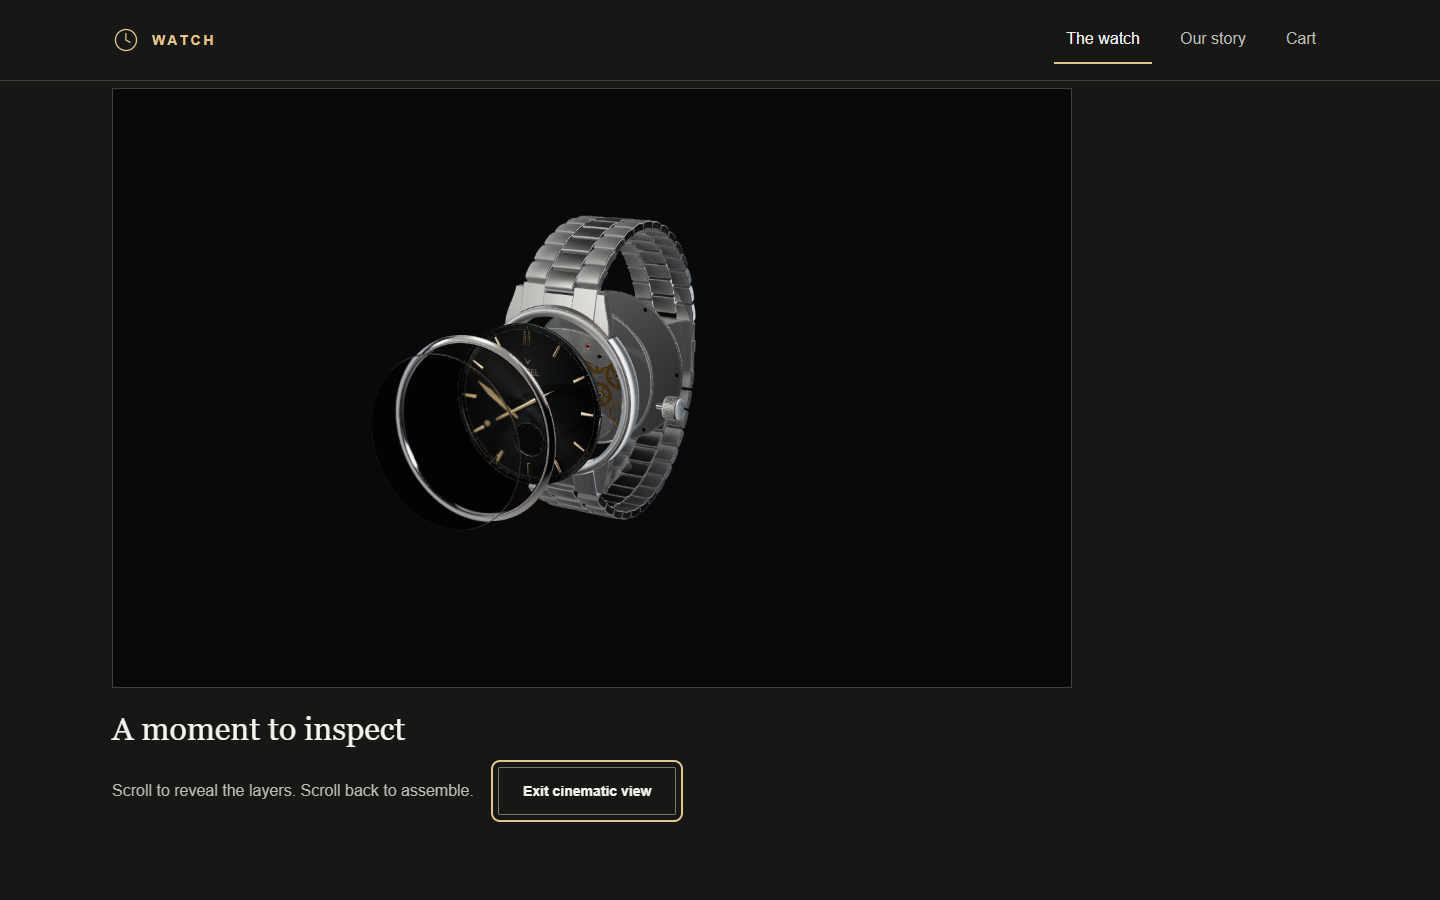
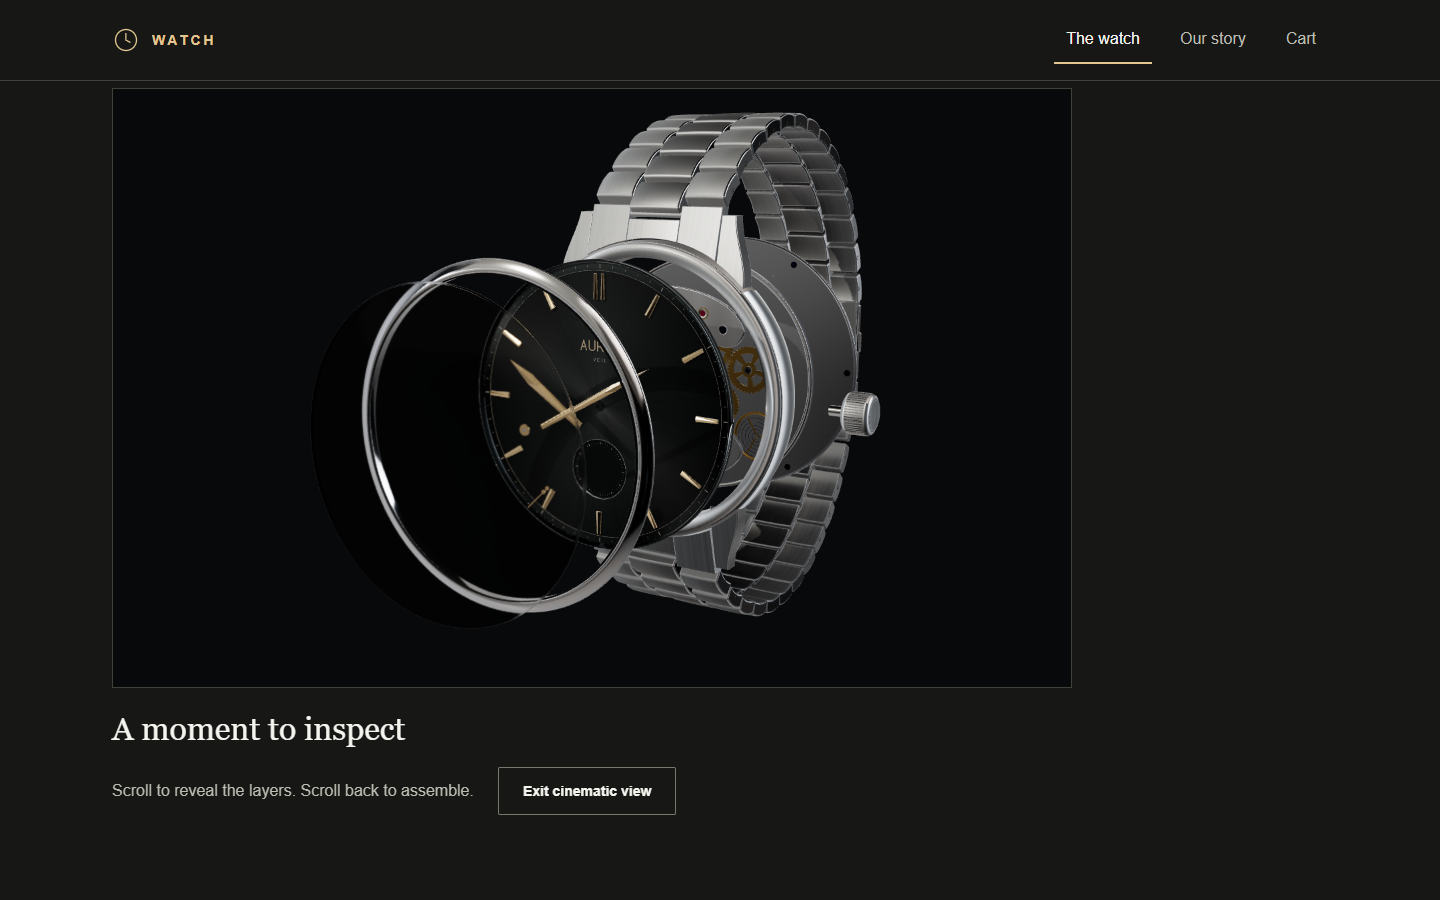
fix: approach before cinematic separation and tighten framing

Changed region(s): [[0.25, 0.1244, 0.625, 0.6844], [0.2812, 0.5911, 0.4062, 0.6844]]

diff --git a/tests/cinematic.spec.ts b/tests/cinematic.spec.ts
@@ -1,4 +1,15 @@
 import { expect, test, type Page } from '@playwright/test';
+import sharp from 'sharp';
+
+async function visibleHeight(image: Buffer) {
+  const { data, info } = await sharp(image).removeAlpha().raw().toBuffer({ resolveWithObject: true });
+  let top = info.height, bottom = 0;
+  for (let y = 0; y < info.height; y++) for (let x = 0; x < info.width; x++) {
+    const i = (y * info.width + x) * info.channels;
+    if (Math.max(data[i], data[i + 1], data[i + 2]) > 45) { top = Math.min(top, y); bottom = Math.max(bottom, y); }
+  }
+  return bottom - top;
+}
 
 async function seek(page: Page, progress: number) {
   await expect(page.locator('.watch-story')).toHaveAttribute('data-progress', /.+/);
@@ -23,6 +34,11 @@ test('V11 cinematic scroll reverses, holds, releases controls and restores the a
   const style = await page.addStyleTag({ content: '.scene-orbit-controls{visibility:hidden}header{visibility:hidden}' });
   const home = await canvas.screenshot();
   await page.getByRole('button', { name: 'Start cinematic view' }).click();
+  await seek(page, 0);
+  const start = await canvas.screenshot({ path: testInfo.outputPath('cinematic-start.png') });
+  await seek(page, 0.18);
+  const approach = await canvas.screenshot({ path: testInfo.outputPath('cinematic-approach.png') });
+  expect(await visibleHeight(approach)).toBeGreaterThan(await visibleHeight(start) * 1.03);
   await seek(page, 0.55);
   const middle = await canvas.screenshot({ path: testInfo.outputPath('cinematic-middle.png') });
   await seek(page, 0.85);
@@ -30,6 +46,7 @@ test('V11 cinematic scroll reverses, holds, releases controls and restores the a
   expect(hold.equals(middle)).toBe(false);
   await seek(page, 0.95); expect((await canvas.screenshot()).equals(hold)).toBe(true);
   await seek(page, 0.55); expect((await canvas.screenshot()).equals(middle)).toBe(true);
+  await seek(page, 0.18); expect((await canvas.screenshot()).equals(approach)).toBe(true);
   await seek(page, 0);
   await style.evaluate(element => element.parentNode?.removeChild(element));
   await canvas.hover(); const before = await page.evaluate(() => scrollY);
@@ -37,7 +54,8 @@ test('V11 cinematic scroll reverses, holds, releases controls and restores the a
   await expect.poll(() => page.evaluate(() => scrollY)).toBeGreaterThan(before);
   await page.getByRole('button', { name: 'Exit cinematic view' }).focus();
   const wheelPosition = await page.evaluate(() => scrollY);
-  await page.keyboard.press('PageDown');
+  await canvas.screenshot(); // Settle the preceding wheel-driven WebGL frame.
+  await page.keyboard.press('PageDown', { delay: 100 });
   await expect.poll(() => page.evaluate(() => scrollY), { timeout: 20_000 }).toBeGreaterThan(wheelPosition);
   await page.getByRole('button', { name: 'Exit cinematic view' }).click();
   await expect(page.getByRole('slider')).toHaveValue('0');
@@ -45,6 +63,16 @@ test('V11 cinematic scroll reverses, holds, releases controls and restores the a
   const hide = await page.addStyleTag({ content: '.scene-orbit-controls{visibility:hidden}header{visibility:hidden}' });
   expect((await canvas.screenshot()).equals(home)).toBe(true);
   await hide.evaluate(element => element.parentNode?.removeChild(element));
+  expect(errors).toEqual([]);
+});
+
+test('cinematic framing remains usable across seven widths, reduced motion and refresh', async ({ page }, testInfo) => {
+  test.setTimeout(180_000);
+  const errors: string[] = [];
+  page.on('pageerror', error => errors.push(error.message));
+  await page.setViewportSize({ width: 1000, height: 900 });
+  await page.goto('/watch'); await page.getByRole('button', { name: 'Load 3D preview' }).click();
+  await expect(page.getByRole('slider')).toBeVisible({ timeout: 15_000 });
   await page.getByRole('button', { name: 'Start cinematic view' }).click();
   for (const width of [320, 375, 390, 768, 1024, 1440, 1920]) {
     await page.setViewportSize({ width, height: 900 }); await seek(page, 0.85);
@@ -79,7 +107,8 @@ test('cinematic touch scrolling, idle rendering and context-loss recovery retain
   });
   await page.setViewportSize({ width: 390, height: 844 });
   await page.goto('/watch'); await page.getByRole('button', { name: 'Load 3D preview' }).click();
-  await page.getByRole('button', { name: 'Start cinematic view' }).click({ timeout: 15_000 });
+  await expect(page.getByRole('slider')).toBeVisible({ timeout: 15_000 });
+  await page.getByRole('button', { name: 'Start cinematic view' }).click();
   await seek(page, 0.4);
   const session = await context.newCDPSession(page);
   await session.send('Emulation.setTouchEmulationEnabled', { enabled: true });

diff --git a/tests/timeline.spec.ts b/tests/timeline.spec.ts
@@ -1,9 +1,12 @@
 import { expect, test } from '@playwright/test';
+import { BoxGeometry, Group, Mesh, MeshBasicMaterial, PerspectiveCamera, Vector3 } from 'three';
+import { createExplodedAssembly } from '../src/three/exploded-assembly';
+import { frameCinematic } from '../src/three/cinematic-camera';
 import { watchTimeline } from '../src/animations/watch-timeline';
 
-test('timeline frames before separation and holds an exact endpoint in either direction', () => {
+test('timeline approaches before coordinated separation and holds an exact endpoint in either direction', () => {
   expect(watchTimeline(0)).toMatchObject({ camera: 0, separation: 0 });
-  expect(watchTimeline(0.3)).toMatchObject({ camera: 1, separation: 0 });
+  expect(watchTimeline(0.18)).toMatchObject({ approach: 1, camera: 0, separation: 0 });
   expect(watchTimeline(0.8)).toMatchObject({ camera: 1, separation: 1 });
   expect(watchTimeline(1)).toMatchObject({ camera: 1, separation: 1 });
   expect(watchTimeline(-1)).toEqual(watchTimeline(0));
@@ -13,4 +16,49 @@ test('timeline frames before separation and holds an exact endpoint in either di
   for (let repeat = 0; repeat < 100; repeat++) {
     for (let index = 100; index >= 0; index--) expect(watchTimeline(index / 100)).toEqual(forward[index]);
   }
+});
+
+
+test('cinematic camera approaches, fits moving components and reverses without drift', () => {
+  const root = new Group(); root.rotation.y = 0.2; root.scale.setScalar(0.5);
+  const body = new Mesh(new BoxGeometry(2, 3, 1), new MeshBasicMaterial());
+  const face = new Mesh(new BoxGeometry(1.8, 1.8, 0.1), new MeshBasicMaterial()); face.position.z = 0.6;
+  root.add(body, face);
+  const assembly = createExplodedAssembly([
+    { object: body, offset: [0, 0, 0], interval: [0, 1] },
+    { object: face, offset: [0, 0, 5], interval: [0, 1] },
+  ]);
+  for (const aspect of [0.45, 1, 2.1]) {
+    const camera = new PerspectiveCamera(28, aspect, 0.001, 100), target = new Vector3();
+    const home = new Vector3(2, 1, 12);
+    const evaluate = (progress: number) => {
+      const pose = watchTimeline(progress); assembly.apply(pose.separation);
+      camera.position.copy(home); target.set(0, 0, 0); camera.lookAt(target);
+      frameCinematic(camera, target, assembly.framingPoints(), pose);
+      camera.updateMatrixWorld(true); camera.updateProjectionMatrix();
+      return [...camera.position.toArray(), ...camera.quaternion.toArray(), ...target.toArray()];
+    };
+    const initial = evaluate(0);
+    evaluate(0.18); expect(camera.position.distanceTo(target)).toBeLessThan(home.length());
+    expect(assembly.progress).toBe(0);
+    const forward = [];
+    for (let i = 0; i <= 100; i++) {
+      forward.push(evaluate(i / 100));
+      // Check actual transformed geometry, independently of the cached fitting points.
+      if (i % 10 === 0 || i === 18) for (const mesh of [body, face]) {
+        const positions = mesh.geometry.getAttribute('position');
+        for (let vertex = 0; vertex < positions.count; vertex++) {
+          const projected = new Vector3().fromBufferAttribute(positions, vertex).applyMatrix4(mesh.matrixWorld).project(camera);
+          expect(Math.abs(projected.x)).toBeLessThan(1);
+          expect(Math.abs(projected.y)).toBeLessThan(1);
+          expect(Math.abs(projected.z)).toBeLessThan(1);
+        }
+      }
+    }
+    for (let i = 100; i >= 0; i--) expect(evaluate(i / 100)).toEqual(forward[i]);
+    expect(evaluate(0)).toEqual(initial);
+    expect(evaluate(0.8)).toEqual(evaluate(1));
+  }
+  assembly.dispose();
+  for (const mesh of [body, face]) { mesh.geometry.dispose(); (mesh.material as MeshBasicMaterial).dispose(); }
 });

diff --git a/src/three/scene-canvas.tsx b/src/three/scene-canvas.tsx
@@ -7,6 +7,7 @@ import { loadStudioEnvironment } from './studio-environment';
 import type { AssemblyPreviewHandle } from '@/components/three/assembly-controls';
 import { createV11Assembly } from './v11-assembly';
 import { watchTimeline } from '@/animations/watch-timeline';
+import { frameCinematic } from './cinematic-camera';
 import { frameAssembly } from './exploded-assembly';
 import { createWatchStudio } from './watch-studio';
 import { SceneLighting } from './scene-lighting';
@@ -55,11 +56,7 @@ export function SceneCanvas({ source, onReady, onError, onAssemblyReady }: Scene
       if (controls) {
         controls.target.copy(studio?.target ?? new Vector3());
         if (assembly && storyProgress !== null) {
-          const homePosition = camera.position.clone(), homeTarget = controls.target.clone();
-          frameAssembly(camera, assembly.envelope, controls.target);
-          const amount = watchTimeline(storyProgress).camera;
-          camera.position.lerpVectors(homePosition, camera.position.clone(), amount);
-          controls.target.lerpVectors(homeTarget, controls.target.clone(), amount);
+          frameCinematic(camera, controls.target, assembly.framingPoints(), watchTimeline(storyProgress));
         } else if (assembly && assembly.progress > 0) frameAssembly(camera, assembly.envelope, controls.target);
         controls.update();
       }
@@ -167,7 +164,7 @@ export function SceneCanvas({ source, onReady, onError, onAssemblyReady }: Scene
             canvas.setAttribute('aria-label', value === null
               ? 'Interactive watch. Drag to rotate, scroll or pinch to zoom. Arrow keys rotate, plus and minus zoom, Home resets the view.'
               : 'Watch assembly controlled by page scrolling. Exit cinematic view for manual exploration.');
-            if (!modeChanged && previous?.camera === pose.camera && previous.separation === pose.separation) return;
+            if (!modeChanged && previous?.approach === pose.approach && previous.camera === pose.camera && previous.separation === pose.separation) return;
             assembly.apply(pose.separation);
             reset();
           } catch { fail(); }
@@ -189,7 +186,7 @@ export function SceneCanvas({ source, onReady, onError, onAssemblyReady }: Scene
     <div className="scene-render-surface" ref={host} />
     {interactive && <div className="scene-orbit-controls" aria-label="Watch view controls">
       <button type="button" onClick={() => interaction.current?.zoom(1 / 1.12)} aria-label="Zoom in">+</button>
-      <button type="button" onClick={() => interaction.current?.zoom(1.12)} aria-label="Zoom out">−</button>
+      <button type="button" onClick={() => interaction.current?.zoom(1.12)} aria-label="Zoom out">âˆ’</button>
       <button type="button" onClick={() => interaction.current?.reset()}>Reset view</button>
     </div>}
   </div>;

diff --git a/src/three/cinematic-camera.ts b/src/three/cinematic-camera.ts
@@ -1,0 +1,50 @@
+import { Box3, Vector3, type PerspectiveCamera } from 'three';
+import type { watchTimeline } from '@/animations/watch-timeline';
+
+/** Tight per-component fitting. No material, model scale or lens changes. */
+export function frameCinematic(camera: PerspectiveCamera, target: Vector3, points: readonly Vector3[], pose: ReturnType<typeof watchTimeline>) {
+  // Caller first restores studio.home, guaranteeing the original pose at zero.
+  if (pose.progress === 0 || !points.length) return;
+  const homeTarget = target.clone();
+  const homeRay = camera.position.clone().sub(homeTarget);
+  const homeDistance = homeRay.length();
+  const direction = homeRay.clone().normalize().lerp(new Vector3(0.9, 0.32, 1.4).normalize(), pose.camera).normalize();
+  const center = new Box3().setFromPoints([...points]).getCenter(new Vector3());
+  const right = new Vector3().crossVectors(camera.up, direction).normalize();
+  const up = new Vector3().crossVectors(direction, right).normalize();
+  const tanY = Math.tan(camera.fov * Math.PI / 360), tanX = tanY * camera.aspect;
+  const relative = new Vector3();
+  function fitAt(lookAt: Vector3) {
+    let distance = camera.near;
+    for (const point of points) {
+      relative.copy(point).sub(lookAt);
+      distance = Math.max(distance, relative.dot(direction) + Math.max(camera.near * 2,
+        1.08 * Math.max(Math.abs(relative.dot(right)) / tanX, Math.abs(relative.dot(up)) / tanY)));
+    }
+    return distance;
+  }
+  // A world-space box center is not the visual center in perspective. Balance
+  // the projected edges before blending toward the inspection composition.
+  for (let iteration = 0; iteration < 4; iteration++) {
+    const distance = fitAt(center);
+    let minX = Infinity, maxX = -Infinity, minY = Infinity, maxY = -Infinity;
+    for (const point of points) {
+      relative.copy(point).sub(center);
+      const depth = distance - relative.dot(direction);
+      const x = relative.dot(right) / depth, y = relative.dot(up) / depth;
+      minX = Math.min(minX, x); maxX = Math.max(maxX, x);
+      minY = Math.min(minY, y); maxY = Math.max(maxY, y);
+    }
+    center.addScaledVector(right, (minX + maxX) * distance / 2);
+    center.addScaledVector(up, (minY + maxY) * distance / 2);
+  }
+  target.lerpVectors(homeTarget, center, pose.camera);
+  const fit = fitAt(target);
+  const approach = homeDistance * (1 - 0.08 * pose.approach);
+  // Preserve the approved initial crop if an unusually short viewport cannot
+  // accommodate more approach; once opening, every component must fit.
+  const distance = pose.camera === 0 ? Math.min(homeDistance, Math.max(approach, fit))
+    : Math.max(fit, approach + (fit - approach) * pose.camera);
+  camera.position.copy(target).addScaledVector(direction, distance);
+  camera.lookAt(target); camera.updateMatrixWorld(true);
+}

diff --git a/src/three/exploded-assembly.ts b/src/three/exploded-assembly.ts
@@ -40,17 +40,35 @@ export function createExplodedAssembly(parts: AssemblyPart[]) {
     }
     return progress;
   }
-  function bounds() {
-    const box = new Box3();
-    for (const { object } of homes) box.expandByObject(object, true);
-    return box;
-  }
-  // Endpoint union bounds all monotone translation paths, including staged ones.
   apply(0);
-  const envelope = bounds();
-  apply(1); envelope.union(bounds()); apply(0);
+  // Cache each component's actual world bounds once, not one oversized box for
+  // the entire explosion. Translation preserves these conservative bounds.
+  const frames = homes.map(home => {
+    const box = new Box3().setFromObject(home.object, true);
+    const offset = home.offset.clone();
+    if (home.object.parent) {
+      const matrix = home.object.parent.matrixWorld;
+      offset.applyMatrix4(matrix).sub(new Vector3().applyMatrix4(matrix));
+    }
+    const corners: Vector3[] = [];
+    if (!box.isEmpty()) for (const x of [box.min.x, box.max.x]) for (const y of [box.min.y, box.max.y]) for (const z of [box.min.z, box.max.z]) corners.push(new Vector3(x, y, z));
+    return { corners, offset, interval: home.interval };
+  });
+  const envelope = new Box3();
+  for (const { corners, offset } of frames) for (const corner of corners) {
+    envelope.expandByPoint(corner); envelope.expandByPoint(corner.clone().add(offset));
+  }
+  const points = frames.flatMap(frame => frame.corners.map(point => point.clone()));
+  function framingPoints() {
+    let index = 0;
+    for (const { corners, offset, interval } of frames) {
+      const t = Math.max(0, Math.min(1, (progress - interval[0]) / (interval[1] - interval[0])));
+      for (const corner of corners) points[index++].copy(corner).addScaledVector(offset, t * t * (3 - 2 * t));
+    }
+    return points;
+  }
   return {
-    envelope,
+    envelope, framingPoints,
     get progress() { return progress; },
     apply,
     dispose() { if (!disposed) { apply(0); disposed = true; } },

diff --git a/src/animations/watch-timeline.ts b/src/animations/watch-timeline.ts
@@ -1,8 +1,9 @@
-/** Scroll is the only clock: approach, separation, then a still inspection hold. */
+/** Scroll is the only clock: approach, coordinated reveal, then inspection. */
 export function watchTimeline(value: number) {
   if (!Number.isFinite(value)) throw new Error('Timeline progress must be finite');
   const progress = Math.max(0, Math.min(1, value));
   const ease = (t: number) => { const x = Math.max(0, Math.min(1, t)); return x * x * (3 - 2 * x); };
-  return { progress, camera: ease(progress / 0.3), separation: ease((progress - 0.3) / 0.5),
-    chapter: progress < 0.3 ? 'The assembled form' : progress < 0.8 ? 'Layers revealed' : 'A moment to inspect' };
+  const reveal = ease((progress - 0.18) / 0.62);
+  return { progress, approach: ease(progress / 0.18), camera: reveal, separation: reveal,
+    chapter: progress < 0.18 ? 'A closer look' : progress < 0.8 ? 'Layers revealed' : 'A moment to inspect' };
 }

diff --git a/docs/TEST_PLAN.md b/docs/TEST_PLAN.md
@@ -129,7 +129,7 @@ On 2026-09-21, Windows / installed Chrome with SwiftShader:
 
 The initial test server start conflicted with an existing server. Local tests now optionally reuse PLAYWRIGHT_BASE_URL; localhost was required by that server's development-origin policy. Initial new error selectors also matched Next.js's route announcer; they were scoped to the preview error. The corrected targeted and full suites passed. Playwright's Node transpilation emits an upstream Three.js CommonJS deprecation warning; browser success paths have no console errors. The existing Fiber Clock warning remains documented.
 
-At the 2026-09-21 checkpoint, Phase 6 was incomplete because no approved asset was available. That empty-manifest requirement is superseded by the V11 integration below. Follow MODEL_PIPELINE.md to inventory and map the actual asset, review materials/textures, size, scale and orientation, and repeat browser/failure checks before marking ✅. Physical-device/GPU and screen-reader QA remain pending.
+At the 2026-09-21 checkpoint, Phase 6 was incomplete because no approved asset was available. That empty-manifest requirement is superseded by the V11 integration below. Follow MODEL_PIPELINE.md to inventory and map the actual asset, review materials/textures, size, scale and orientation, and repeat browser/failure checks before marking âœ…. Physical-device/GPU and screen-reader QA remain pending.
 
 ## Phase 6 selected-asset integration, 2026-09-24
 
@@ -243,3 +243,33 @@ development and production suites; individual application behavior is unchanged.
 Final full-suite GitHub results are recorded on the Phase 8 PR before handoff.
 Physical-device performance, Safari/Firefox and screen-reader audits remain later
 release gates; the current captures do not certify those environments.
+
+
+## Phase 8 review refinement - approach before separation
+
+The initial camera retreat was replaced by an approach of up to 8% over the first
+18% of scroll, followed by coordinated separation/camera travel through 80% and a
+stationary hold. Per-component current bounds and perspective centering keep the
+inspection view larger without altering the approved GLB, lens or rendering quality.
+
+Validation on Windows / installed Chrome:
+- Lint, strict types and the production build pass.
+- Six assembly/timeline numerical tests pass. Camera checks use independently
+  transformed mesh vertices across portrait and wide aspects, verify forward
+  approach, and require exact camera restoration and reverse evaluation.
+- All four production cinematic scenarios pass across the focused runs: measured
+  approach growth, reverse/hold image equivalence, exact assembled restoration,
+  keyboard/wheel/touch, seven widths, motion preferences, refresh, idle rendering,
+  context loss/retry, route exit and failed cinematic downloads.
+- The measured desktop approach grows the visible watch height from 482 to 525
+  pixels (about 9%). Updated desktop/mobile and four sequence captures are in
+  cinematic-validation/; these are rendering evidence, not physical-device FPS data.
+- The expanded visual and seven-width checks were split into independent scenarios
+  after their combined software-rendering workload exceeded the overall test budget.
+  Assertions and application loading deadlines remain intact. Keyboard testing lets
+  the preceding wheel frame finish; the touch test waits for model readiness before
+  timing the click, avoiding a combined loading/actionability deadline.
+
+The refined branch now contains 74 tests. Final complete development/production
+results are recorded on PR #10 before handoff. Physical-device and broader browser
+QA remain later release gates.

diff --git a/docs/CINEMATIC_SCROLL.md b/docs/CINEMATIC_SCROLL.md
@@ -8,12 +8,21 @@ are unchanged. Manual Phase 7 separation and orbit controls remain available.
 ## Sequence and ownership
 
 `src/animations/watch-timeline.ts` defines one normalized clock:
-- 0-30%: assembled watch; smoothstep camera travel from V11 home to the inspection framing.
-- 30-80%: staged separation through the existing `createV11Assembly` controller.
+- 0-18%: the assembled watch approaches by up to 8%, limited by available framing room.
+- 18-80%: components separate while the camera turns gently toward a three-quarter inspection angle.
 - 80-100%: fixed separated pose and camera, giving the viewer time to inspect.
 
-The camera reaches the full assembly envelope before any parts move. Reverse
-scrolling evaluates the same absolute values. Zero restores every saved component
+The initial retreat has been removed. `frameCinematic` fits the current positions
+of the individual components, with an 8% projected framing margin. It no longer
+frames the oversized union of all possible positions before the reveal begins.
+Camera travel and separation share the same smoothstep progress. The camera eases
+back only as needed to keep the opening watch visible, ending with a tighter hold.
+
+Each component's assembled world bounds and world translation are cached once.
+The controller evaluates their corners using the same stages as the actual parts;
+there is no per-frame vertex scan. The original full-envelope camera remains in
+use for manual Phase 7 inspection. Assembly parent transforms remain fixed.
+Reverse scrolling evaluates the same absolute values. Zero restores every saved component
 transform. Exiting cinematic mode restores the original V11 camera and assembled
 pose. This does not implement the later narrative reassembly or movement scenes.
 

diff --git a/docs/cinematic-validation/README.md b/docs/cinematic-validation/README.md
@@ -1,7 +1,9 @@
 # Phase 8 visual evidence
 
 Captured from the actual V11 GLB in installed Chrome using SwiftShader on Windows,
-2026-09-24. `cinematic-middle.png` shows partial separation; `cinematic-hold.png`
+2026-09-24. `cinematic-start.png` and `cinematic-approach.png` show the assembled
+watch at 0% and 18% scroll; the approach is measured to increase its rendered height.
+`cinematic-middle.png` shows partial separation; `cinematic-hold.png`
 shows the inspection hold. Full viewport captures at 320px and 1440px were reviewed
 for model framing, header clearance and visible exit controls. These are captures from the production build.
 

diff --git a/docs/PROJECT_CONTEXT.md b/docs/PROJECT_CONTEXT.md
@@ -67,3 +67,9 @@ Reduced motion uses manual inspection. Exiting, failed cinematic downloads and
 context-loss recovery restore manual assembled access. No later-phase movement,
 material narrative, reassembly section or commerce features were added.
 See CINEMATIC_SCROLL.md and cinematic-validation/ for design and evidence.
+
+
+Phase 8 review refinement: the cinematic watch now approaches before opening.
+Camera rotation and separation overlap; current component bounds replace the
+full explosion envelope for a larger, clipping-safe inspection composition.
+The original manual inspection framing and V11 rendering settings are unchanged.
